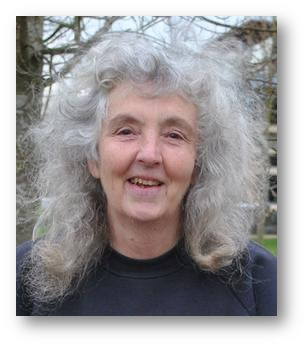
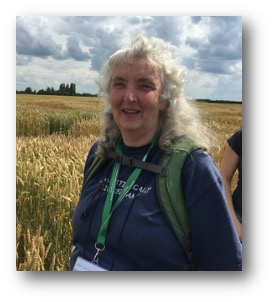
update bio

diff --git a/Invited_speakers/README.md b/Invited_speakers/README.md
@@ -8,7 +8,17 @@ Gary Atlin received BS and MS degrees in crop science at the University of Guelp
 
 
 ## Rosemary Bailey, University of St Andrews
+
+<img src="../assets/img/profileRosemary.jpg" alt="Profile Picture" width="200" align="left" style="margin-right: 20px;">  
+
+R. A. Bailey is Professor of Statistics at the University of St Andrews, and a Fellow of the Royal Society of Edinburgh.   She worked for the Medical Research Council's Air Pollution Research Unit before studying at the University of Oxford, where she obtained a BA in Mathematics and a DPhil in Group Theory. As a post-doctoral fellow at the University of Edinburgh she learnt how to apply group theory to problems in design of experiments. She spent ten years applying this knowledge in the Statistics Department at Rothamsted Experimental Station, before moving to academia, being Head of Department or School at Goldsmiths College and at Queen Mary College, both in the University of London. She was President of the then-British Region of the International Biometric Society from 2000 to 2002, and has also served on various committees of the London Mathematical Society, the Royal Statistical Society and the Institute of Mathematical Statistics.
+
 ## Hao Cheng, UC Davis
+
+<img src="../assets/img/profileHao.jpg" alt="Profile Picture" width="200" align="left" style="margin-right: 20px;">  
+
+Professor Cheng’s research is broadly involved in the development of statistical, machine learning, and computational methods that bridge the genome and phenome for the genetic improvement of populations through more accurate, efficient, and biologically meaningful analyses. Professor Cheng has focused on the use of genomics, phenomics, and other sources of omics data in various species to better predict desired traits and infer the mechanisms underlying them. This includes the theoretical aspects of quantitative genetics, such as statistical models and computational algorithms (e.g., genomic prediction and association studies), the development of software tools to apply these statistical methods and computational algorithms to real-life, large-scale omic data, and the application of these methods and tools to large datasets for a wide range of traits in various species.
+
 ## Sarah Hearne, CIMMYT
 ## Steven Penfield, John Innes Centre
 
